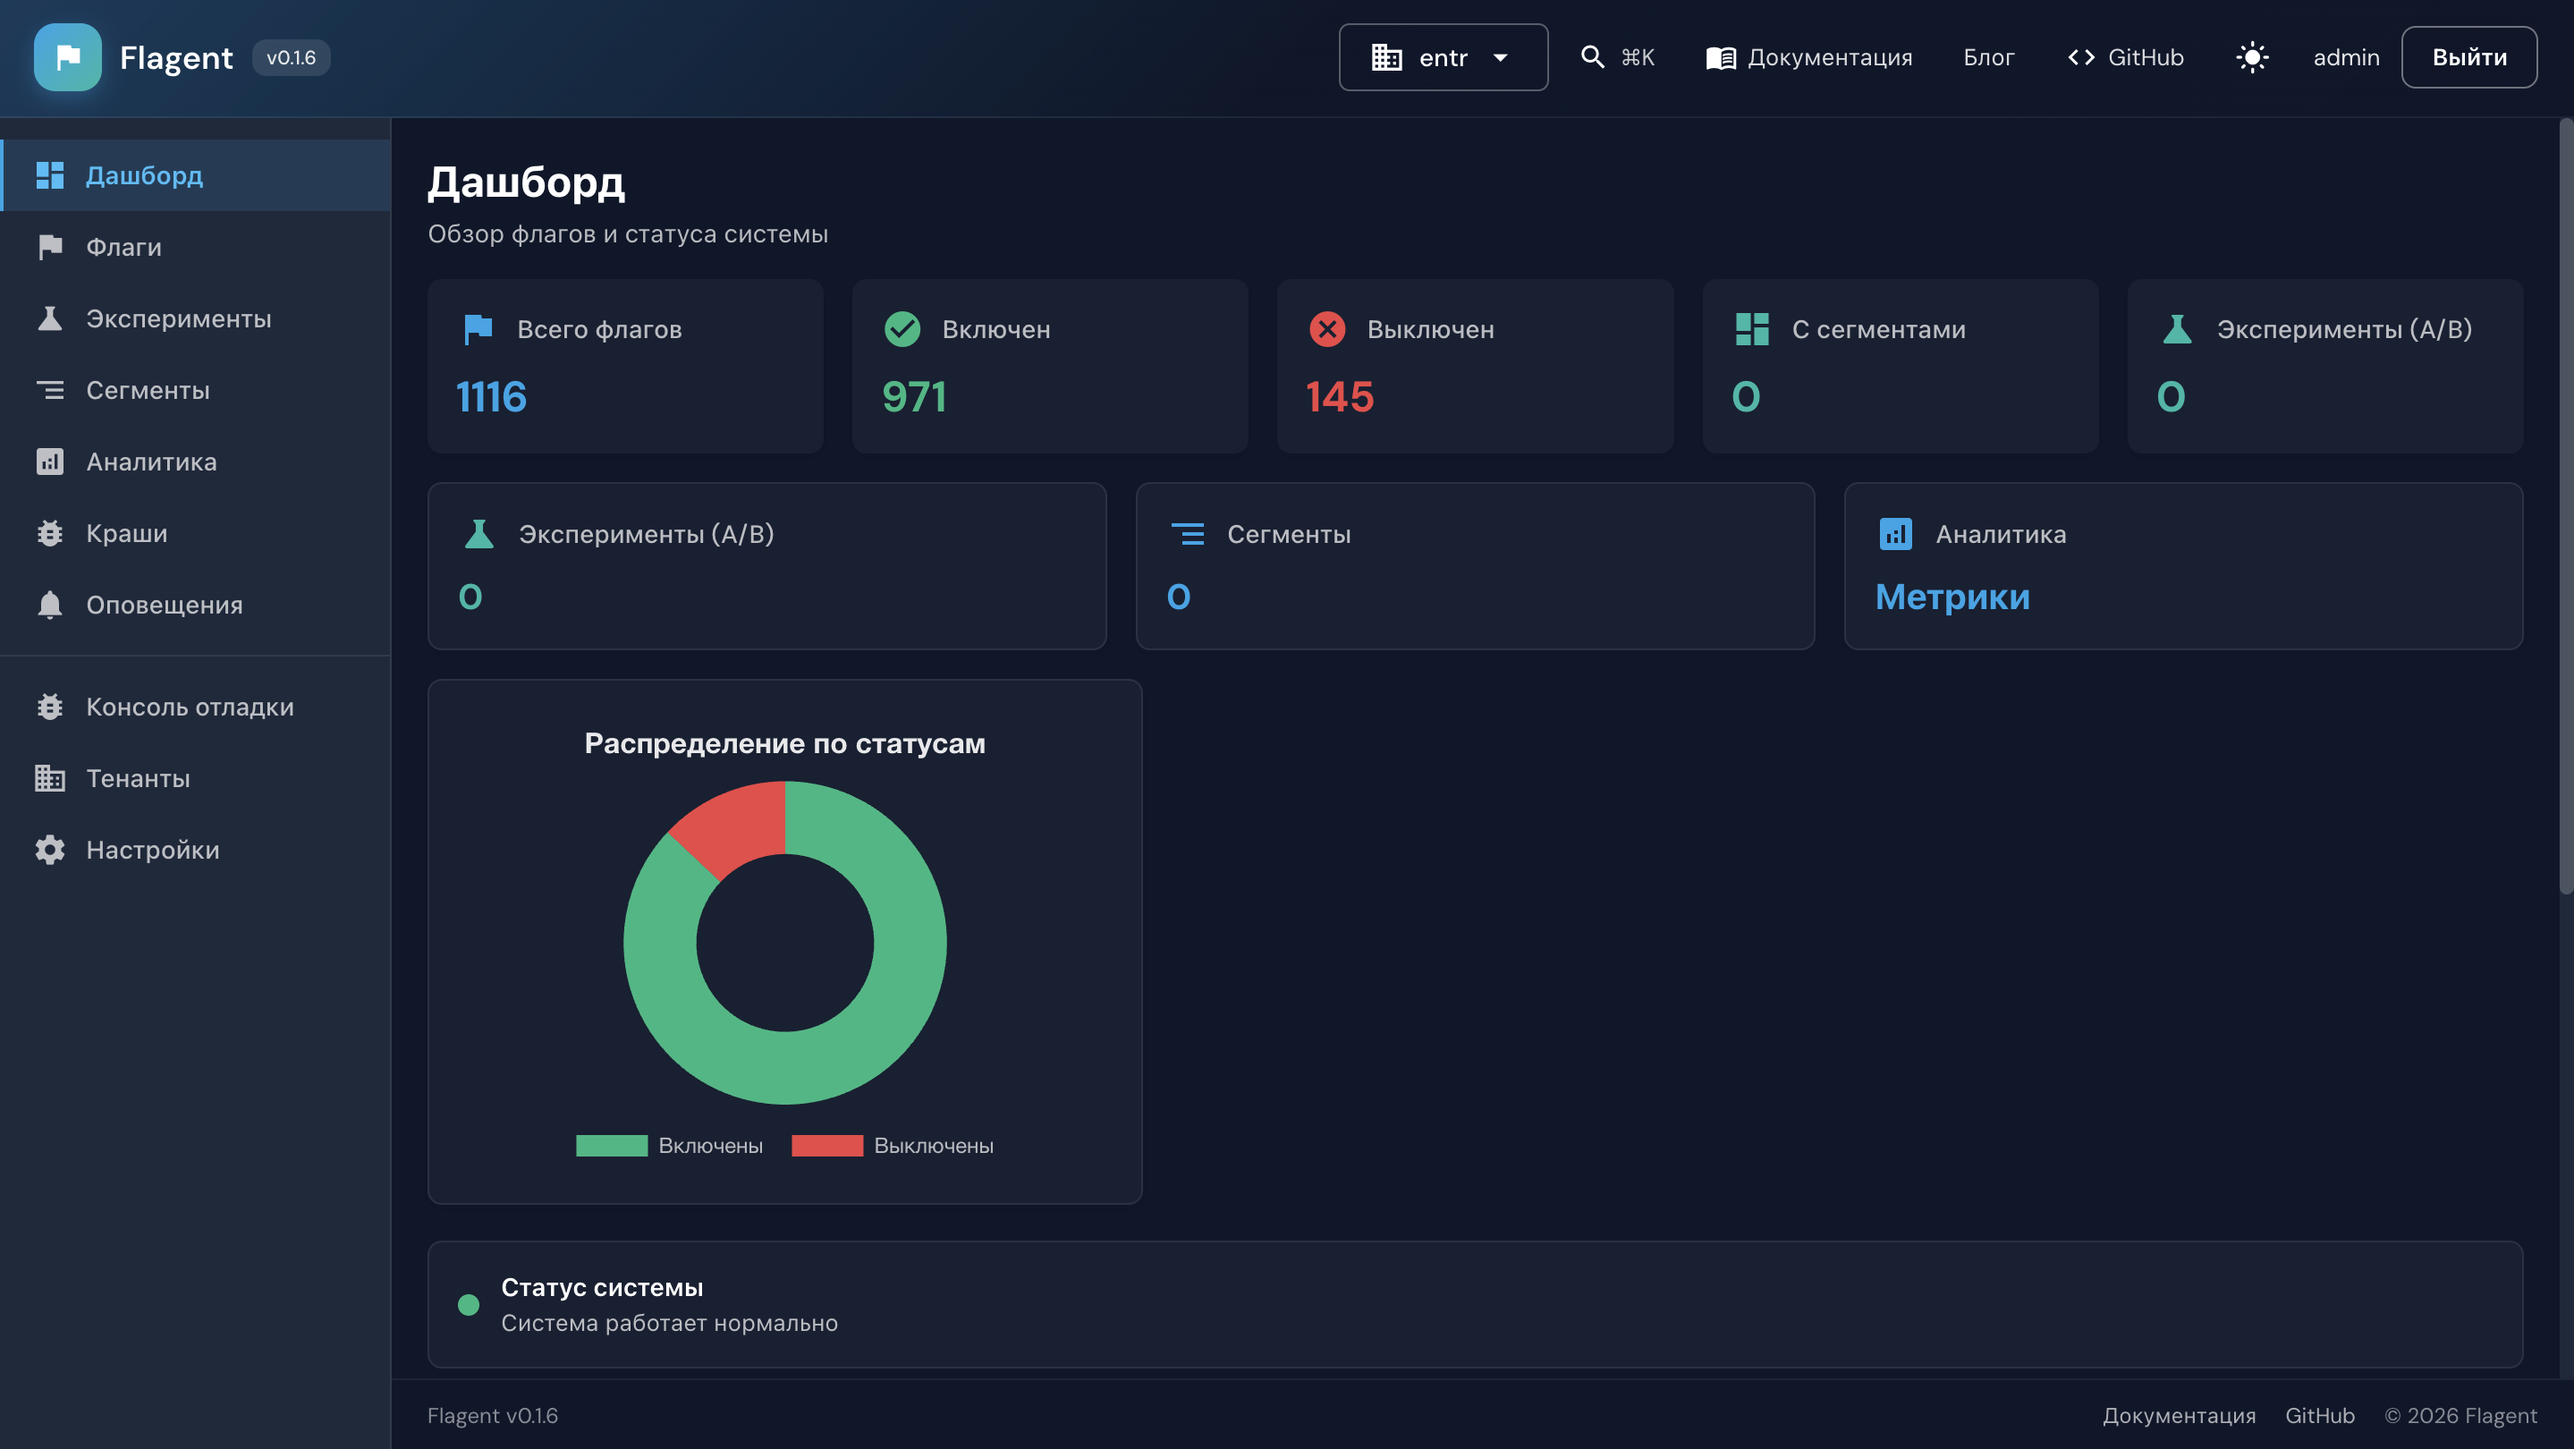
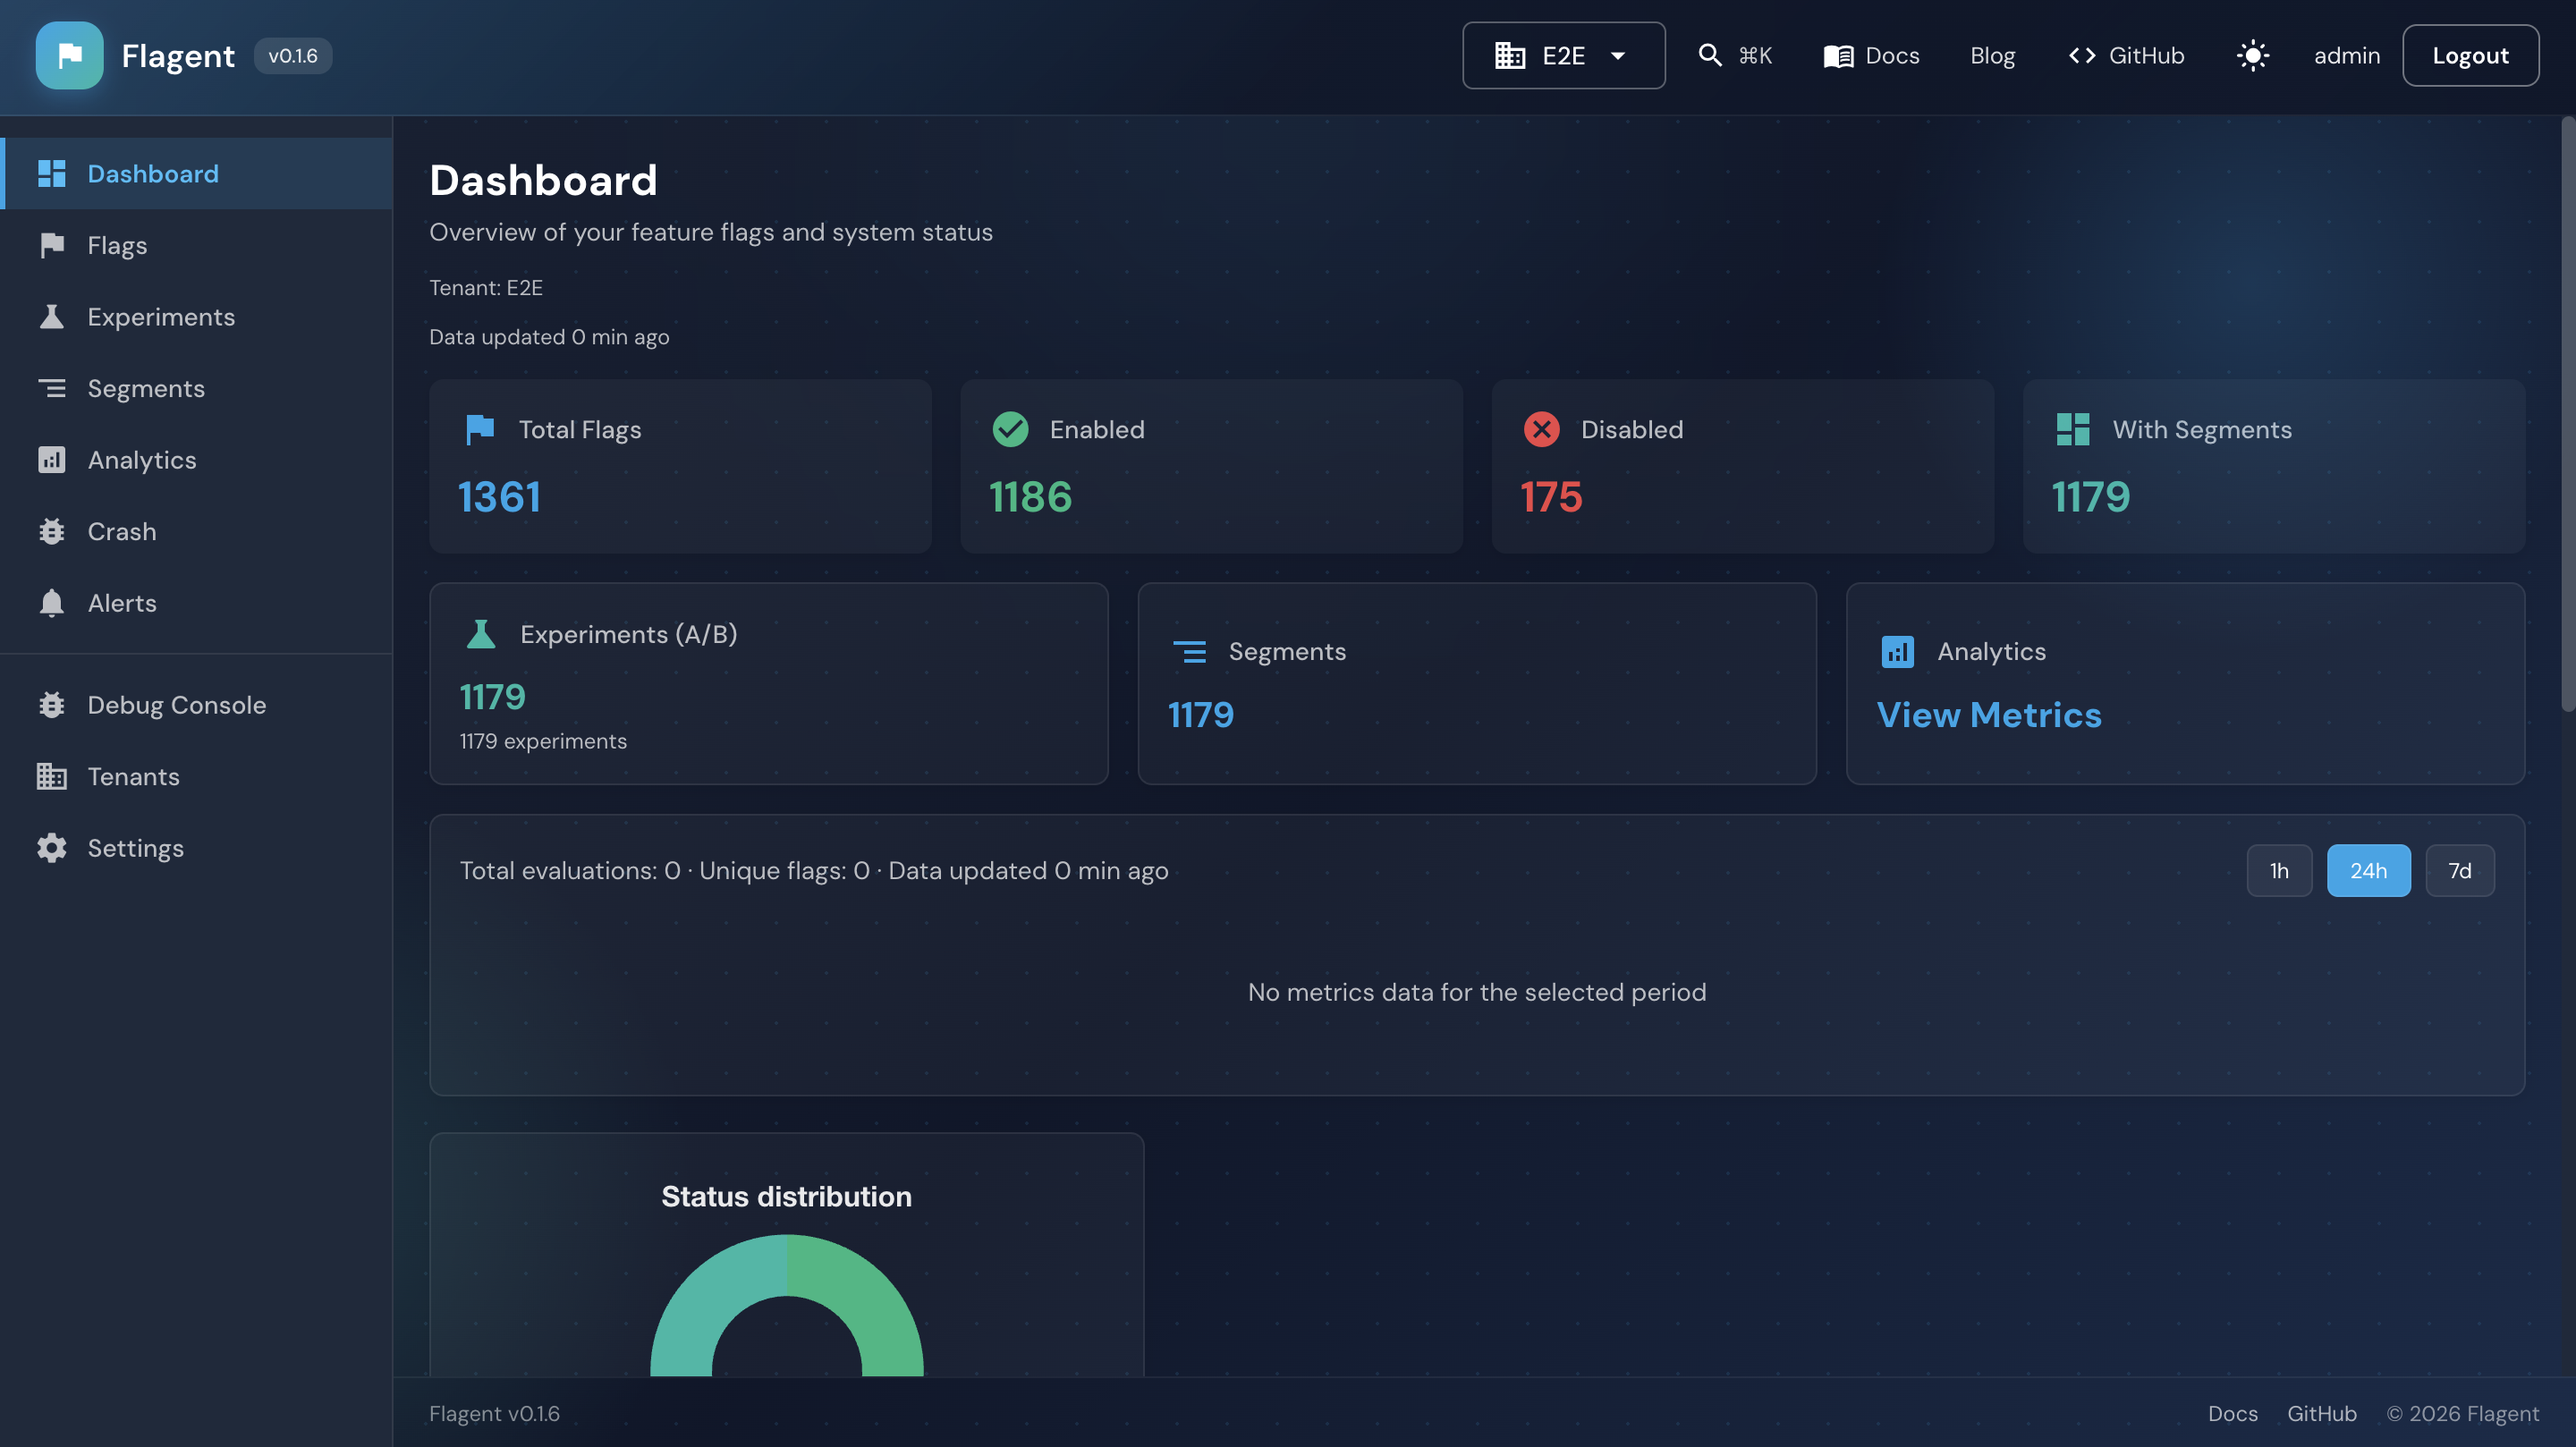
docs: update screenshots and remove redundant footer lines from guides
- Refresh docs assets screenshots (dashboard, flags list, experiments, debug console, create flag)
- Remove duplicate footer lines from EN guides (mcp, publishing, trunk-based-development)
- Remove duplicate footer lines from RU docs (README, api, architecture, features, guides, grafana, performance)

Made-with: Cursor

diff --git a/docs/languages/ru/performance/tuning-guide.ru.md b/docs/languages/ru/performance/tuning-guide.ru.md
@@ -1,7 +1,5 @@
 # Руководство по настройке производительности
 
-> [English](../../performance/tuning-guide.md)
-
 Руководство по оптимизации производительности Flagent на основе результатов нагрузочного тестирования.
 
 **Примечание:** Индексы и таблицы для метрик, аномалий и smart rollout применяются при использовании соответствующих функций (Core metrics или Enterprise). Evaluation и CRUD флагов актуальны для OSS всегда.

diff --git a/docs/languages/ru/features/performance-optimizations.ru.md b/docs/languages/ru/features/performance-optimizations.ru.md
@@ -1,7 +1,5 @@
 # Оптимизации производительности
 
-> [English](../../features/performance-optimizations.md)
-
 ## Обзор
 
 Flagent предоставляет множество оптимизаций производительности для обеспечения максимальной скорости evaluation и масштабируемости. Эти оптимизации делают Flagent готовым к работе с высокими нагрузками и большим количеством одновременных запросов.

diff --git a/docs/languages/ru/guides/versioning.ru.md b/docs/languages/ru/guides/versioning.ru.md
@@ -1,7 +1,5 @@
 # Версия проекта (единый источник)
 
-> [English](../../guides/versioning.md)
-
 **Единый источник истины:** корневой файл `VERSION` (одна строка, например `0.1.0`).
 
 - **Gradle:** корневой `build.gradle.kts` читает `VERSION`; все подпроекты наследуют эту версию (не задавайте `version` в `build.gradle.kts` подпроектов).

diff --git a/docs/languages/ru/features/real-time-updates.ru.md b/docs/languages/ru/features/real-time-updates.ru.md
@@ -1,7 +1,5 @@
 # Обновления в реальном времени (SSE)
 
-> [English](../../features/real-time-updates.md)
-
 ## Обзор
 
 Flagent поддерживает real-time обновления флагов через Server-Sent Events (SSE). Это позволяет клиентам автоматически получать обновления при изменении флагов без polling или перезапуска приложения.

diff --git a/docs/languages/ru/features/offline-first-sdk.ru.md b/docs/languages/ru/features/offline-first-sdk.ru.md
@@ -1,7 +1,5 @@
 # Offline-First SDK
 
-> [English](../../features/offline-first-sdk.md)
-
 ## Обзор
 
 Offline-First SDK позволяет приложениям работать с feature flags даже без интернет-соединения. Флаги кэшируются локально и синхронизируются автоматически при восстановлении связи.

diff --git a/docs/languages/ru/guides/mcp.ru.md b/docs/languages/ru/guides/mcp.ru.md
@@ -1,7 +1,5 @@
 # MCP (Model Context Protocol) для Flagent
 
-> [English](../../guides/mcp.md)
-
 Flagent предоставляет **MCP-сервер**, чтобы AI-ассистенты (Cursor, Claude, GigaChat и др.) могли читать и управлять feature flags, выполнять evaluation и анализировать эксперименты.
 
 ## Включение MCP

diff --git a/docs/languages/ru/guides/configuration.ru.md b/docs/languages/ru/guides/configuration.ru.md
@@ -1,7 +1,5 @@
 # Конфигурация
 
-> [English](../../guides/configuration.md)
-
 Flagent можно конфигурировать с помощью переменных окружения. Все параметры конфигурации загружаются при запуске из переменных окружения.
 
 ## Переменные окружения

diff --git a/docs/languages/ru/README.md b/docs/languages/ru/README.md
@@ -1,5 +1,3 @@
-<p align="center"><strong><a href="../../README.md">English</a></strong></p>
-
 # Flagent
 
 **Ship Features Safely. Experiment Confidently.** — первый Kotlin-native сервис feature flags: type-safe, coroutine-first флаги и эксперименты; опционально Smart Rollout и обнаружение аномалий (Enterprise).

diff --git a/docs/guides/mcp.md b/docs/guides/mcp.md
@@ -1,7 +1,5 @@
 # MCP (Model Context Protocol) for Flagent
 
-> [English](mcp.md)
-
 Flagent exposes a **Model Context Protocol (MCP)** server so AI assistants (Cursor, Claude, GigaChat, etc.) can read and manage feature flags, evaluate them, and analyze experiments.
 
 ## Enable MCP

diff --git a/docs/languages/ru/guides/gitops.ru.md b/docs/languages/ru/guides/gitops.ru.md
@@ -1,7 +1,5 @@
 # GitOps с Flagent
 
-> [English](../../guides/gitops.md)
-
 Flagent поддерживает GitOps-подход: конфигурация флагов хранится в репозитории, синхронизируется через CI/CD.
 
 ## Обзор

diff --git a/docs/languages/ru/guides/preview-environments.ru.md b/docs/languages/ru/guides/preview-environments.ru.md
@@ -1,7 +1,5 @@
 # Preview Environments
 
-> [English](../../guides/preview-environments.md)
-
 Настройка feature flags для preview/PR окружений (Vercel, Netlify, Cloudflare Pages).
 
 ## Резервированные ключи entityContext

diff --git a/docs/languages/ru/architecture/backend.ru.md b/docs/languages/ru/architecture/backend.ru.md
@@ -1,7 +1,5 @@
 # Архитектура Backend (Ktor)
 
-> [English](../../architecture/backend.md)
-
 ## Обзор
 
 Backend построен на Ktor с использованием Kotlin Coroutines для асинхронности.
